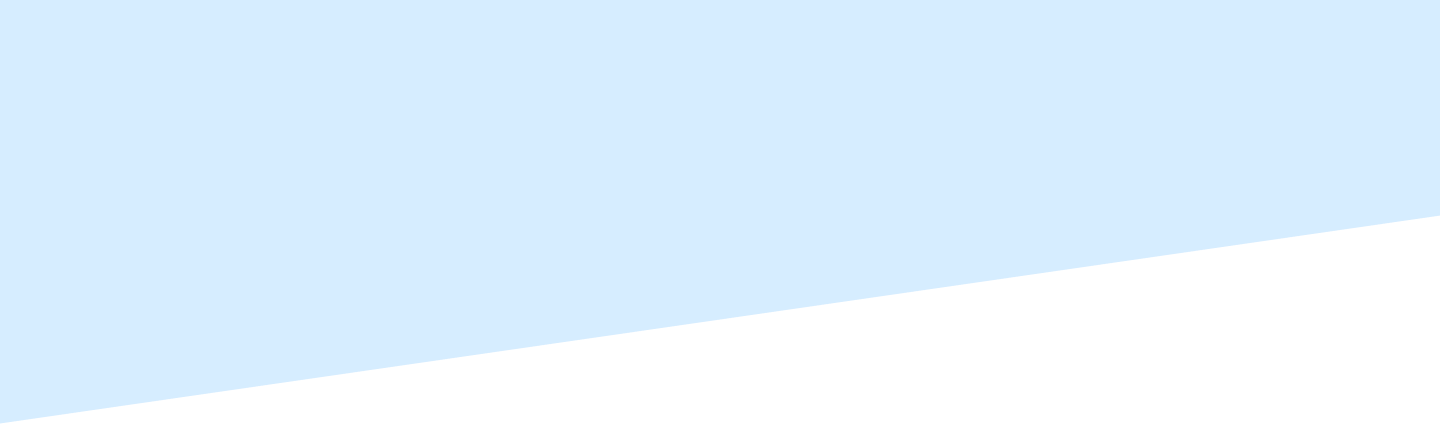
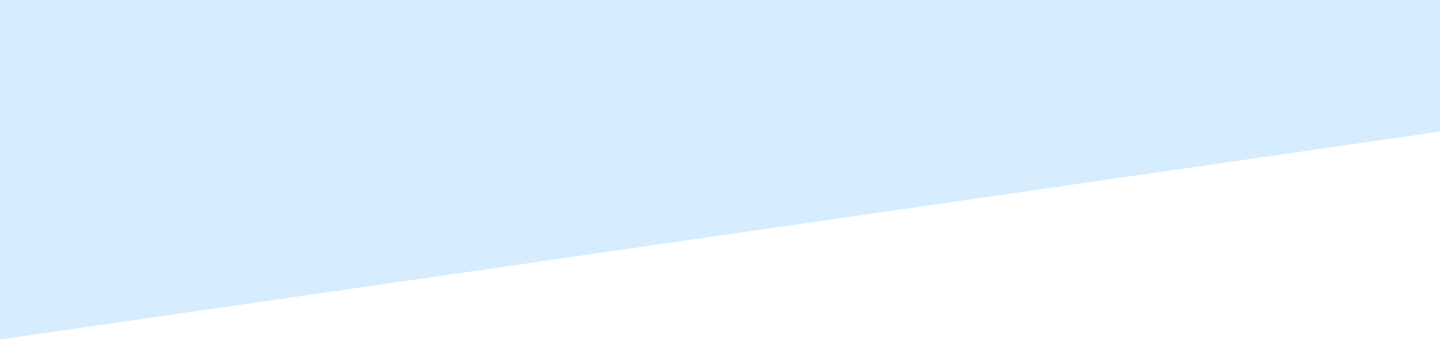
home page design fix and some changes

Changed region(s): [[0.0625, 0.3824, 1.0, 0.9706], [0.0312, 0.9706, 0.0625, 1.0]]

diff --git a/src/assets/css/style.css b/src/assets/css/style.css
@@ -639,14 +639,29 @@ html {
 }
 
 .partner-with-container {
+  background-color: #d6edff;
+  background: url(../images/Blue-bottom-ellipse.png),
+    url(../images/Last-section-bottom-white.png),
+    url(../images/bottom-donut-shape.png), #d6edff;
+  background-repeat: no-repeat, no-repeat, no-repeat;
+  background-position: 0% 120%, 0% 101%, 100% 85%;
+  background-size: auto auto, 100% auto, auto auto;
+  padding-top: 10px;
+  padding-bottom: 150px;
+  margin-bottom: -1px;
+}
+.why-us-background {
   background-color: #fff;
   background: url(../images/capsule-shape.png), url(../images/section3-top.png),
-    url(../images/mid-ellipse.png), url(../images/Last-section-bottom.png), #fff;
-  background-repeat: no-repeat, no-repeat, no-repeat, no-repeat;
-  background-position: right top, left top, right center, left bottom;
-  background-size: auto auto, 100% auto, auto auto, 100% auto;
-  padding-top: 150px;
-  padding-bottom: 150px;
+    url(../images/mid-ellipse.png), url(../images/capsule-shape-straight.png),
+    url(../images/Last-section-bottom-2.png), #fff;
+  /* background-size: 100% auto; */
+  background-repeat: no-repeat, no-repeat, no-repeat, no-repeat, no-repeat;
+  background-position: right top, left top, right center, left bottom,
+    left bottom;
+  background-size: auto auto, 100% auto, auto auto, auto auto, 100% auto;
+  padding-top: 200px;
+  padding-bottom: 250px;
 }
 .logo-section-container {
   padding-bottom: 10rem;
@@ -723,8 +738,17 @@ html {
     width: 410px;
   }
   .partner-with-container {
-    background-position: right top, left top, right center, left bottom;
-    background-size: auto 10%, 100% auto, auto auto, 100% auto;
+    background-repeat: no-repeat, no-repeat, no-repeat;
+    background-position: -1% 120%, 0% 101%, 100% 85%;
+    background-size: auto 40%, 100% auto, auto 25%;
+    padding-top: 1px;
+    padding-bottom: 150px;
+  }
+  .why-us-background {
+    background-position: 100% -1%, left top, 100% 50%, left bottom, left bottom;
+    background-size: 15% auto, 100% auto, 30% auto, 18% auto, 101% auto;
+    padding-top: 10px;
+    padding-bottom: 150px;
   }
 }
 @media (max-width: 576px) {
@@ -747,8 +771,25 @@ html {
     margin-top: 2rem;
   }
   .partner-with-container {
-    background-position: right top, left top, right 450px, left bottom;
-    background-size: auto 5%, 100% auto, auto 20%, 100% auto;
+    background: url(../images/Blue-bottom-ellipse.png),
+      url(../images/Mobile-angles-3-new-white.png),
+      url(../images/bottom-donut-shape.png), #d6edff;
+    background-repeat: no-repeat, no-repeat, no-repeat;
+    background-position: -120px 105%, 0% 101%, 100% 50%;
+    background-size: auto 30%, 100% auto, auto 15%;
+    padding-top: 1px;
+    padding-bottom: 150px;
+  }
+  .why-us-background {
+    background: url(../images/capsule-shape.png),
+      url(../images/Mobile-angles-2.png), url(../images/mid-ellipse.png),
+      url(../images/capsule-shape-straight.png),
+      url(../images/Mobile-angles-3.png), #fff;
+    background-repeat: no-repeat, no-repeat, no-repeat, no-repeat, no-repeat;
+    background-position: 100% -1%, left top, 100% 15%, left bottom, left bottom;
+    background-size: 20% auto, 100% auto, 70% auto, 25% auto, 101% auto;
+    padding-top: 5px;
+    padding-bottom: 100px;
   }
 }
 @media (max-width: 600px) {
@@ -789,6 +830,11 @@ html {
     width: 55%;
     left: -70px;
     top: 320px;
+  }
+}
+@media (max-width: 400px) {
+  .image-marketer {
+    left: 15px;
   }
 }
 
@@ -1978,4 +2024,75 @@ button:disabled {
   font: 500 1rem/1.8125rem "Poppins", sans-serif;
   letter-spacing: 0.1em;
   margin-top: 1rem;
+}
+
+.time-taking-cards {
+  background-color: transparent;
+  border: none;
+  padding: 60px 10px 30px 10px;
+}
+.time-taking-cards .top-img-container {
+  height: 170px;
+  width: 100%;
+  margin: 0 auto;
+}
+.time-taking-cards .card-img-top {
+  width: 45%;
+  margin: 0 auto;
+}
+.time-taking-cards .title-container {
+  height: 100px;
+}
+.time-taking-cards .card-title {
+  font: 700 24px/32px "Poppins", sans-serif;
+  letter-spacing: 0.1em;
+  color: #112f4a;
+  padding-bottom: 30px;
+  padding-top: 10px;
+}
+.time-taking-cards .card-text {
+  font: 600 16px/24px "Poppins", sans-serif;
+  letter-spacing: 0.1em;
+  color: #112f4a;
+  padding: 0px 25px;
+}
+@media (max-width: 1200px) {
+  .time-taking-cards .card-title {
+    font: 700 16px/24px "Poppins", sans-serif;
+  }
+  .time-taking-cards {
+    background-color: transparent;
+    border: none;
+    padding: 20px 5px;
+  }
+  .time-taking-cards .top-img-container {
+    height: 100px;
+    width: 100%;
+    margin: 0 auto;
+  }
+  .time-taking-cards .card-text {
+    font: 700 0.8rem/1.15rem "Poppins", sans-serif;
+    padding: 0px 5px;
+  }
+  .time-taking-cards .title-container {
+    height: 80px;
+  }
+}
+@media (max-width: 576px) {
+  .time-taking-cards {
+    background-color: transparent;
+    border: none;
+    padding: 30px 10px;
+  }
+  .time-taking-cards .top-img-container {
+    height: 140px;
+    width: 100%;
+    margin: 0 auto;
+  }
+  .time-taking-cards .card-text {
+    padding: 0px 5px;
+  }
+  .time-taking-cards .title-container {
+    height: 70px;
+  }
 }

diff --git a/src/app/modules/static/components/landing/landing.component.html b/src/app/modules/static/components/landing/landing.component.html
@@ -68,6 +68,89 @@
   <div class="container-lg why-us">
     <div class="why-us-text-container">
       <div>
+        <h3 class="section-sub-heading">
+          Developing NFT Application Is Time Taking and Expensive
+        </h3>
+      </div>
+    </div>
+    <div class="time-taking">
+      <div class="row">
+        <div class="col-sm-12 col-md-4">
+          <div class="card time-taking-cards">
+            <div class="top-img-container text-center">
+              <img
+                class="card-img-top"
+                src="assets/images/Complex-blockchain.png"
+                alt="Card image"
+              />
+            </div>
+            <div class="card-body">
+              <div class="title-container">
+                <h4 class="card-title text-center">Complex Blockchain</h4>
+              </div>
+
+              <p class="card-text text-center">
+                Grasping Solidity, Web3.js, GraphQL, nodes, IPFS, etc. is
+                hard, time-ingesting and commonly desires a crew to cowl all
+                the skills.
+              </p>
+            </div>
+          </div>
+        </div>
+        <div class="col-sm-12 col-md-4">
+          <div class="card time-taking-cards">
+            <div class="top-img-container text-center">
+              <img
+                class="card-img-top"
+                src="assets/images/Manage-nfts.png"
+                alt="Card image"
+              />
+            </div>
+
+            <div class="card-body">
+              <div class="title-container">
+                <h4 class="card-title text-center">Manage NFTs</h4>
+              </div>
+
+              <p class="card-text text-center">
+                Our hardworking team puts extra efforts managing nodes,
+                creating indexes and try to reevaluate the wheel
+              </p>
+            </div>
+          </div>
+        </div>
+        <div class="col-sm-12 col-md-4">
+          <div class="card time-taking-cards">
+            <div class="top-img-container text-center">
+              <img
+                class="card-img-top"
+                src="assets/images/market-research-1.png"
+                alt="Card image"
+              />
+            </div>
+            <div class="card-body">
+              <div class="title-container">
+                <h4 class="card-title text-center">
+                  Slow Go Market and Its Risk
+                </h4>
+              </div>
+              <p class="card-text text-center">
+                Utilizing intensely rate-limited, moderate and fragmented
+                APIs to slow down in an amazingly competitive market,
+                driving to losing clients and revenue.
+              </p>
+            </div>
+          </div>
+        </div>
+      </div>
+    </div>
+  </div>
+</div>
+
+<div class="container-fluid why-us-background">
+  <div class="container-lg why-us">
+    <div class="why-us-text-container">
+      <div>
         <h3 class="section-sub-heading">Why Us?</h3>
       </div>
     </div>

diff --git a/src/app/modules/authentication/components/list-nft-page/list-nft-page.component.ts b/src/app/modules/authentication/components/list-nft-page/list-nft-page.component.ts
@@ -11,7 +11,7 @@ enum IsResponse {
   notInitiated,
 }
 interface Nft {
-  tokenId: number;
+  name: string;
   image: string;
 }
 interface Wallet {
@@ -74,12 +74,15 @@ export class ListNftPageComponent implements OnInit {
   }
 
   async listNfts(walletId: Wallet): Promise<any> {
+    this.nftList = [];
     this.isSubmitted = true;
     this.isLoaded = false;
     
     const connection = new Connection('mainnet-beta');
     // const ownerPublickey = '8g8ej28R8A9p3SRKhcMjBqyD6NvXaKDLkVFJoyD6bvKe';
     const nftsmetadata = await Metadata.findDataByOwner(connection, walletId.address);
+    console.log('nftMetaData', nftsmetadata);
+    
     this.nftsMetaData = nftsmetadata;
     if (this.nftsMetaData.length === 0) { 
       this.isResponse = IsResponse.failed;
@@ -88,7 +91,7 @@ export class ListNftPageComponent implements OnInit {
     this.nftsMetaData.map((nft) => {
       this.readNftService.readMetaData(nft.data.uri).then(
         (response: any) => {
-          this.nftList.push({ tokenId: response.tokenId, image: response.image });
+          this.nftList.push({ name: response.name, image: response.image });
           this.isResponse = IsResponse.success;
           this.isLoaded = true;
         },
@@ -99,6 +102,7 @@ export class ListNftPageComponent implements OnInit {
         }
       );
     });
+    console.log('nftList', this.nftList);
   }
 
   get f() { return this.listNftForm.controls; }

diff --git a/src/app/modules/authentication/components/create-nft-page/create-nft-page.component.ts b/src/app/modules/authentication/components/create-nft-page/create-nft-page.component.ts
@@ -14,10 +14,10 @@ import { ToastrService } from 'ngx-toastr';
 export class CreateNftPageComponent implements OnInit {
   // apiKey: string | null = '';
   isLoaded: boolean = true;
-  authorizationKey: string = 'AUTHORIZATION_KEY';
+  authorizationKey: string = '';
   name: string | null = 'FILE_NAME';
   description: string | null = 'DESCRIPTION';
-  mintTo: string = 'WALLET_ADDRESS';
+  mintTo: string = '';
   image: any = 'assets/images/blank-img.png';
   url: string = environment.url;
   defaultCurl: string = '';

diff --git a/src/app/modules/authentication/components/list-nft-page/list-nft-page.component.html b/src/app/modules/authentication/components/list-nft-page/list-nft-page.component.html
@@ -107,8 +107,8 @@
             <div class="nft-img-container">
               <img [src]="nft.image" />
             </div>
-            <p class="gall-para-2">{{ nft.tokenId }}</p>
-            <p class="gall-para-2" *ngIf="!nft.tokenId">Nan</p>
+            <p class="gall-para-2">{{ nft.name }}</p>
+            <p class="gall-para-2" *ngIf="!nft.name">Nan</p>
           </div>
         </div>
       </div>
